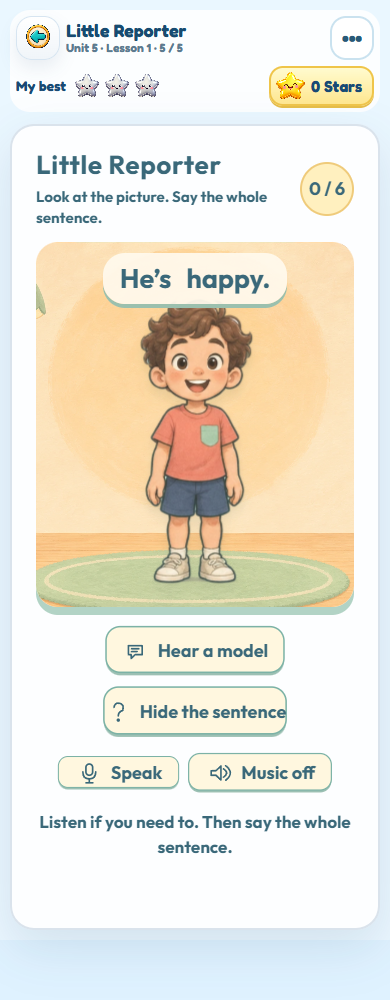
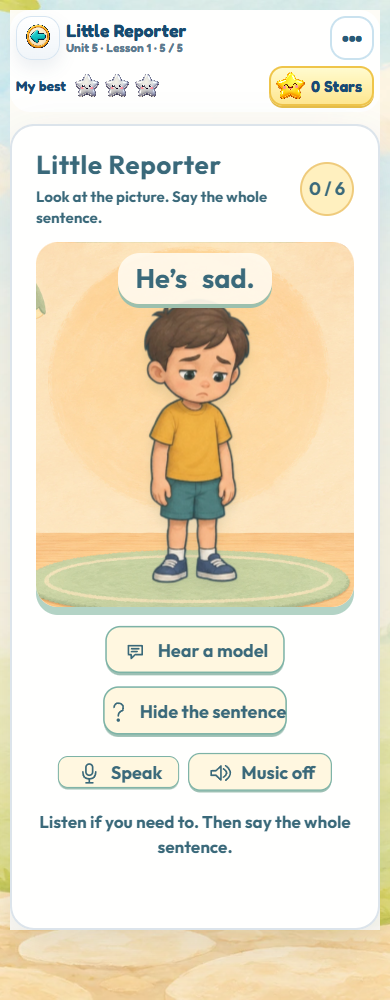
Apply Unit 5 garden across the full page and game frame

diff --git a/app/app-shell.js b/app/app-shell.js
@@ -45,7 +45,7 @@
    document.body.style.setProperty('--family-library-bg',unit?.id===4?`url("${new URL(familyLesson?.background||unit.selectorScene,document.baseURI).href}")`:'none');
    if(mounted||currentGame)stop();hideLibraries();pane.hidden=false;pane.classList.toggle('unit3-toytown',unit?.id===3);pane.innerHTML=html;
    pane.classList.toggle('u5-feelings-library',unit?.id===5);
-   pane.classList.toggle('shell-art-selector',html.includes('shell-lesson-grid'));pane.classList.toggle('shell-art-home',!unit&&html.includes('shell-unit-grid'));pane.style.backgroundImage=unit?.selectorScene&&(unit.id===5||html.includes('shell-lesson-grid'))?`url("${unit.selectorScene}")`:'';
+   pane.classList.toggle('shell-art-selector',html.includes('shell-lesson-grid'));pane.classList.toggle('shell-art-home',!unit&&html.includes('shell-unit-grid'));pane.style.backgroundImage=unit?.selectorScene&&unit.id!==5&&html.includes('shell-lesson-grid')?`url("${unit.selectorScene}")`:'';
    activeSidebar(unit?.space||null);currentSpace=unit?.space||'home';window.scrollTo({top:0,behavior:'instant'});
   }
   function bread(unit,lesson){return `<nav class="shell-breadcrumb" aria-label="Breadcrumb"><a href="#/"><i class="nav-art nav-home" aria-hidden="true"></i>Home</a>${unit?`<span aria-hidden="true">›</span><a href="#/unit/${unit.id}" ${!lesson?'aria-current="page"':''}><i class="nav-art nav-lessons" aria-hidden="true"></i>Unit ${unit.id}</a>`:''}${lesson?`<span aria-hidden="true">›</span><span aria-current="page">Lesson ${lesson.id}</span>`:''}</nav>`;}
@@ -68,7 +68,7 @@
    return a?{hash,unit:u,lesson:l,activity:a,title:a.title||GAME_META[a.game]?.[1]||a.id,image:u.thumbnail,label:`Unit ${u.id} · Lesson ${l.id}`} : null;
   }
   function progressPanel(keys,label){const s=progress.summary(keys),stars=keys.reduce((n,k)=>n+(progress.get(k).stars||0),0);return `<div class="shell-integrated-progress"><div><b>${s.completed?`${s.completed} game${s.completed===1?'':'s'} completed`:'Ready to explore'}</b><span>${stars} ★ <small>${s.completed} / ${s.total}</small></span></div><progress max="${s.total||1}" value="${s.completed}" aria-label="${esc(label)} completed games"></progress></div>`;}
-  function headerState(next){const u=unitById(next.unit),letters=next.screen.startsWith('letter'),brand=document.getElementById('brandHome');document.body.dataset.learningScreen=next.activity||next.screen==='letter-game'?'game':next.screen;brand.querySelector('.brand-mark').textContent=u?'U'+u.id:letters?'ABC':'★';brand.querySelector('b').textContent=u?u.title:letters?'Letter Land':'My English Adventure';brand.querySelector('small').textContent=u?'Family and Friends Starter':letters?`Letters A–${LETTER_TAUGHT_UNTIL}`:'Family and Friends Starter';brand.setAttribute('aria-label','Go Home');}
+  function headerState(next){const u=unitById(next.unit),letters=next.screen.startsWith('letter'),brand=document.getElementById('brandHome');document.body.dataset.learningScreen=next.activity||next.screen==='letter-game'?'game':next.screen;document.body.classList.toggle('u5-feelings-world',u?.id===5);document.body.style.setProperty('--u5-world-bg',u?.id===5?`url("${new URL(u.selectorScene,document.baseURI).href}")`:'none');brand.querySelector('.brand-mark').textContent=u?'U'+u.id:letters?'ABC':'★';brand.querySelector('b').textContent=u?u.title:letters?'Letter Land':'My English Adventure';brand.querySelector('small').textContent=u?'Family and Friends Starter':letters?`Letters A–${LETTER_TAUGHT_UNTIL}`:'Family and Friends Starter';brand.setAttribute('aria-label','Go Home');}
   function activityCard(activity,index,unit,lesson){
    const value=progress.get(key(unit.id,lesson.id,activity));const legacy=originals.get(activity.game);let card;
    if(legacy?.classList.contains('activity-card'))card=legacy.cloneNode(true);

diff --git a/shared/unit5-feelings.css b/shared/unit5-feelings.css
@@ -8,7 +8,10 @@
 @media(max-width:650px){.u5-game[data-mode=helping] .u5-stage{aspect-ratio:1/1.38}.u5-help-world>.u5-actor{top:17%;height:59%}.u5-help-world .u5-dock{height:22%}.u5-photo-mat{left:13%;top:17%;width:74%;height:63%}.u5-photo-world>.u5-actor{top:17%;height:60%;left:18%;width:64%}.u5-letter-targets{justify-content:flex-start;flex-wrap:nowrap;overflow-x:auto;padding:5px;scrollbar-width:thin}.u5-letter-slot{flex:0 0 48px}}
 
 /* Dedicated lesson scenery; the shell removes this class when leaving Unit 5. */
-#lessonApp.u5-feelings-library{background-color:#f4f2dc;background-size:cover;background-position:center bottom;background-repeat:no-repeat;border-radius:28px;padding:clamp(12px,2.2vw,30px);isolation:isolate}
+body.u5-feelings-world:not([data-learning-screen="game"]),body.u5-feelings-world[data-learning-screen="game"]{background:#f4f2dc var(--u5-world-bg) center bottom/cover fixed no-repeat!important;min-height:100vh}
+body.u5-feelings-world .shell-game-nav{background:#fffbedf2;border-color:#c4d2aa}
+body.u5-feelings-world #gameScreen{background:#fffdf7f5}
+#lessonApp.u5-feelings-library{background-color:transparent;border-radius:28px;padding:clamp(12px,2.2vw,30px);isolation:isolate}
 #lessonApp.u5-feelings-library .hero{background:#fffbeded;border:1px solid #d7dfb6;box-shadow:0 5px 0 #c4d2aa66}
 #lessonApp.u5-feelings-library .hero-scene{display:none}
 #lessonApp.u5-feelings-library .hero-copy{max-width:820px}

diff --git a/index.html b/index.html
@@ -1924,13 +1924,13 @@ setSpace(savedSpace,{scroll:false});
 <script src="shared/letter-parade.js?v=1"></script>
 <link rel="stylesheet" href="shared/cloud-pilot.css?v=wide1">
 <script src="shared/cloud-pilot.js?v=wide1"></script>
-<link rel="stylesheet" href="shared/unit5-feelings.css?v=20261126-scenes2">
+<link rel="stylesheet" href="shared/unit5-feelings.css?v=20261126-world3">
 <script src="assets/unit5/lesson1/audio/clips.js?v=20261126-play1"></script>
 <script src="shared/unit5-feelings.js?v=20261126-scenes2"></script>
 <script src="data/units.js?v=20261126-u5scenes2"></script>
 <script src="app/router.js?v=20261005a"></script>
 <script src="app/progress.js?v=20261014-linked2"></script>
-<script src="app/app-shell.js?v=20261126-letters-l"></script>
+<script src="app/app-shell.js?v=20261126-u5world3"></script>
 <link rel="stylesheet" href="shared/learning-rewards.css?v=20261006-click3">
 <script src="shared/learning-rewards.js?v=20261006-click3"></script>
 <link rel="stylesheet" href="shared/app-experience.css?v=20261027-family-art2">

diff --git a/docs/game-plans/unit5-feelings/PLAN.md b/docs/game-plans/unit5-feelings/PLAN.md
@@ -78,6 +78,12 @@ Background technical review: all six generated sources and runtime files are has
 
 ### Public scenery and speaking verification — complete
 
+### Whole-page background clarification — 2026-11-26
+
+The user clarified both the Unit5 world background and Lesson1 game backgrounds. The first scenery release applied the garden inside lessonApp while the outer body retained the generic older-unit sky. Correct that scope: headerState now owns a Unit5-only body class and background variable on every Unit5 route, including direct game links, and clears both when leaving. The garden paints the full viewport behind the unit selector, lesson selector and game frame; the inner panel is transparent so it does not repeat the garden. Each activity retains its distinct v2 scene. Game content, voices, speech endpoint and progress are unchanged.
+
+Local verification: 35 layouts include the Unit5 six-lesson selector, Lesson1 activity selector and five game stages at five widths. Confirmed full-page garden during game routes, separate inner scenes, and SPA transitions Unit5 -> Letter Land -> Unit5 -> Unit4 with no scenery leak. Existing Unit5 navigation, native touch and three legacy-route checks pass. Public results are refreshed after publication.
+
 Runtime release f524b07 is served on the existing GitHub Pages site; its pages-build-and-deployment run 45786975418 completed successfully. All thirty layout checks passed again against the public site, including decoding all new backgrounds, missing-scene retry and leaving Unit5 without affecting Unit4. Evidence: backgrounds-v2-public/report.json and public screenshots.
 
 Little Reporter was also exercised from the actual GitHub Pages origin through native Speak/Done controls and the existing adapter, with approved Higgs recordings substituted for fake microphone bytes at the test transport boundary. All eight actual Cloudflare replies produced the expected UI result: incomplete retry, wrong-pronoun retry and six accepted full sentences with completion/progress. No ASR reply was fabricated. See live-ui-public.json and live-ui-public-*.png. An additional generated two-second silence clip returned UNCLEAR and earned no correct result; its irrelevant hallucinated transcript is retained in live-silence.json as evidence of ASR limitations. This does not measure student accuracy or pronunciation. No student recording was sent or persisted in these checks.
